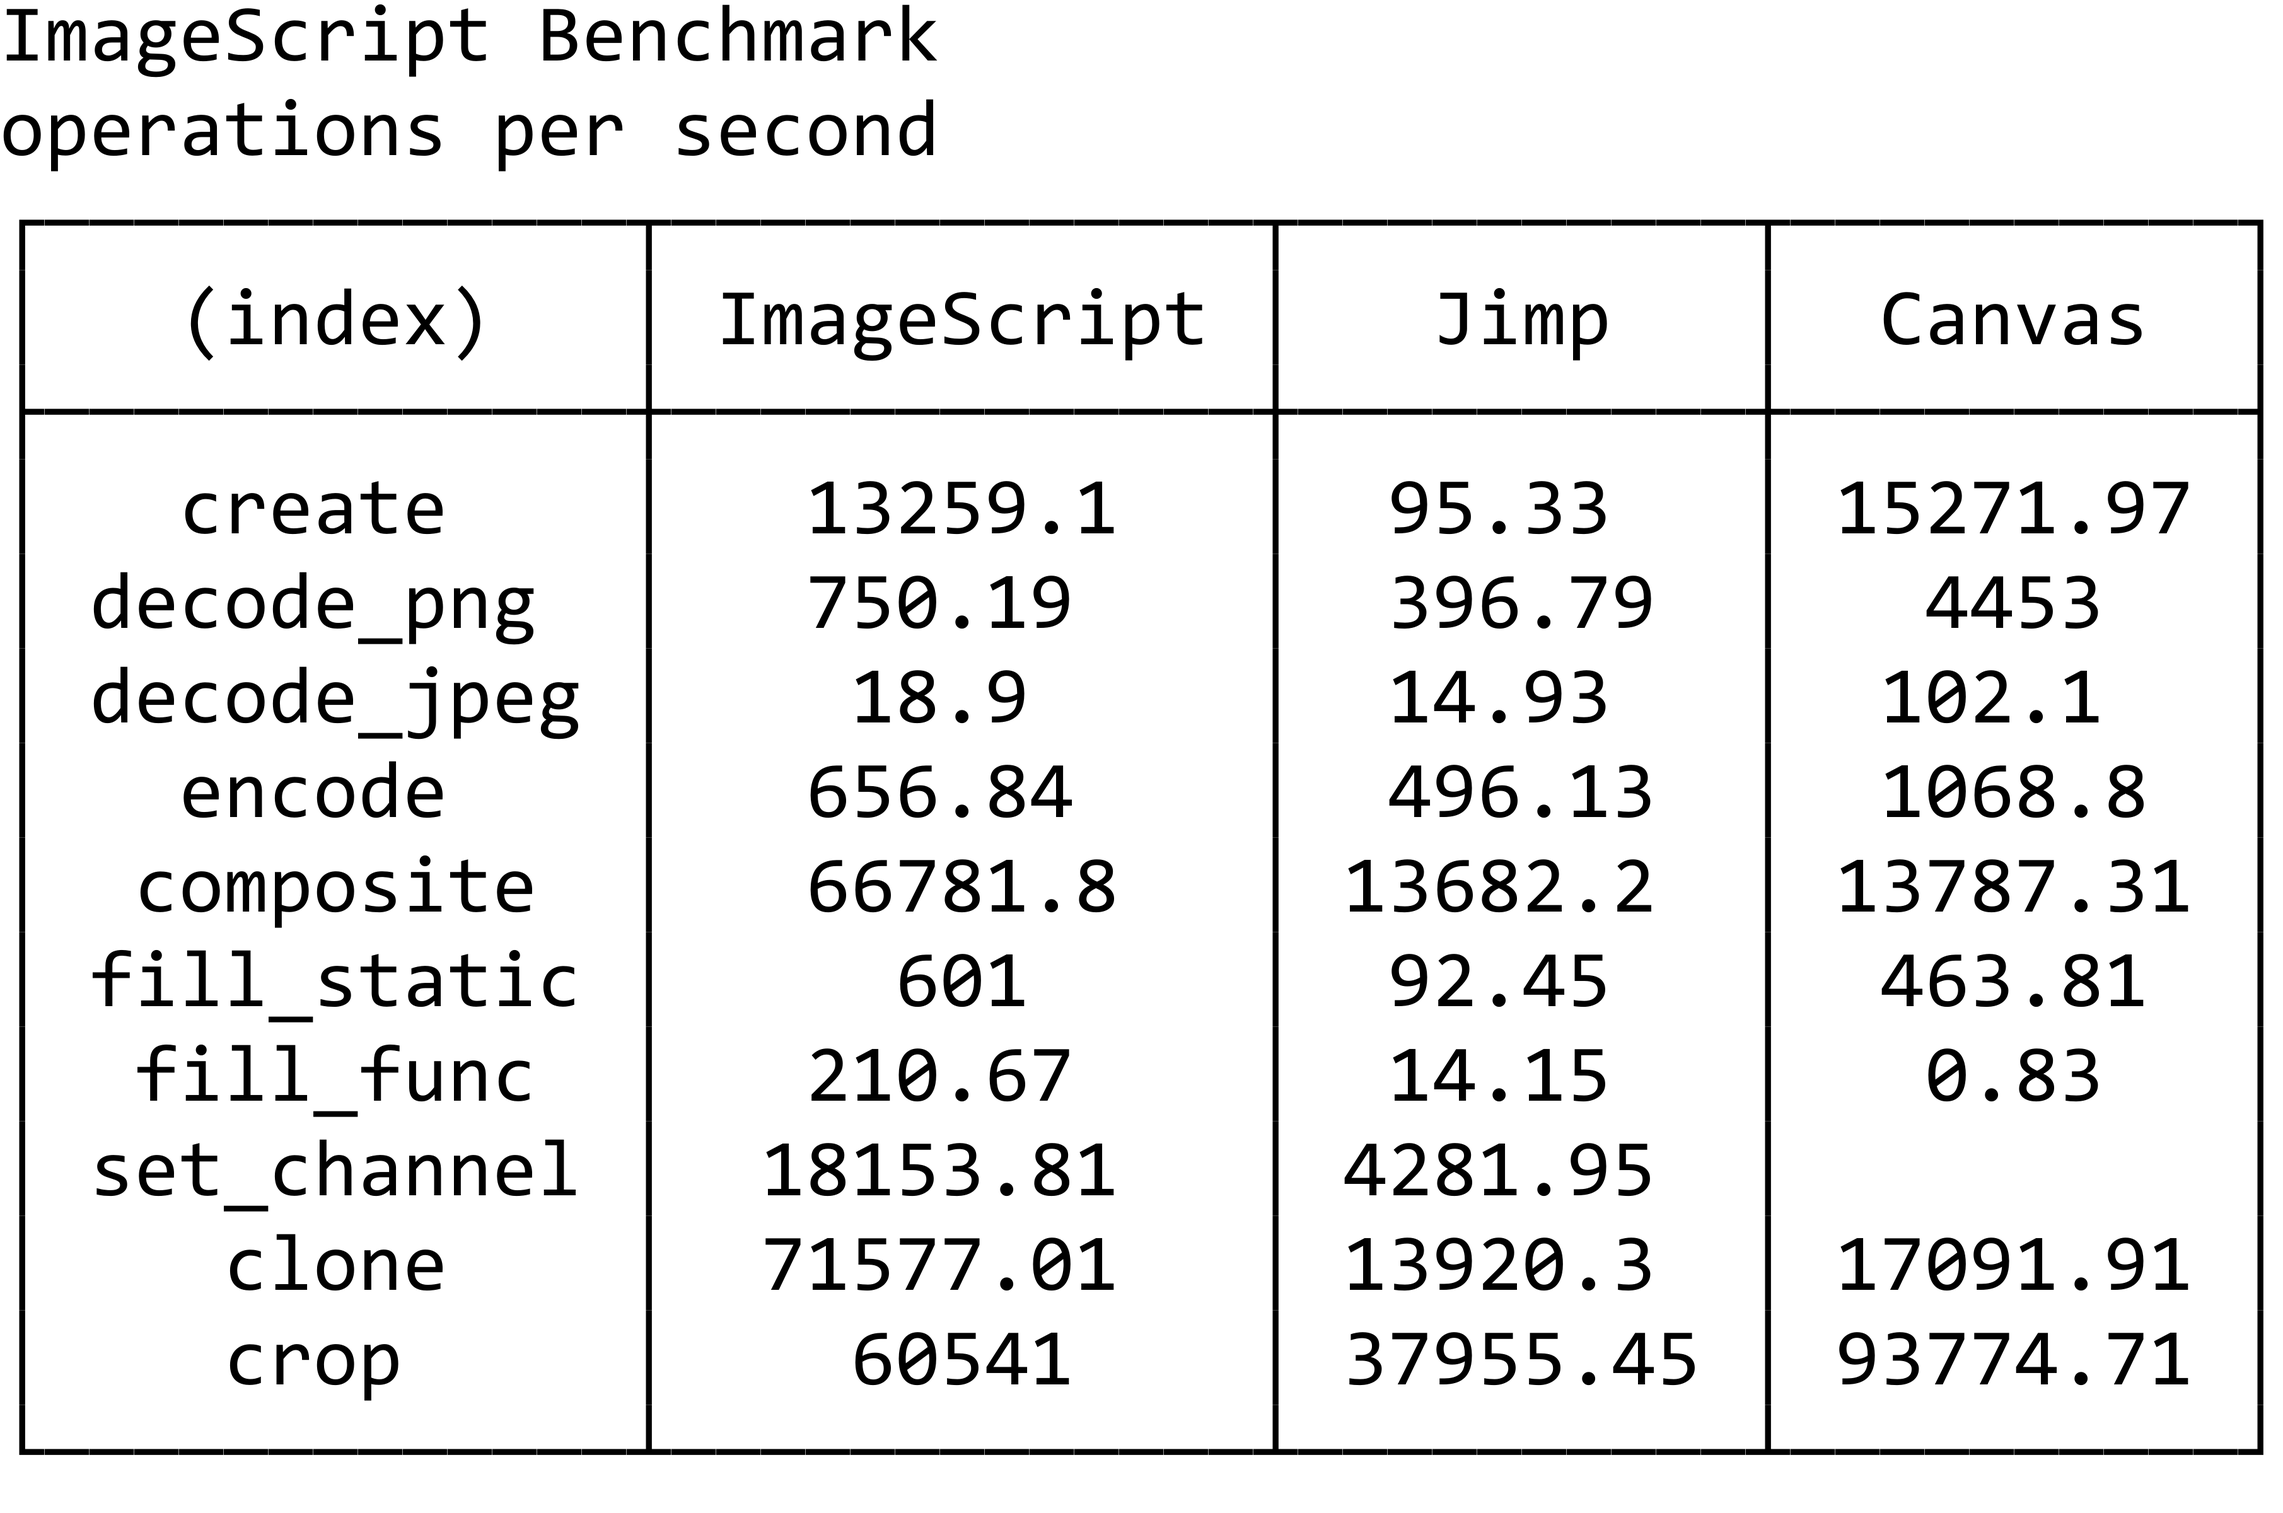
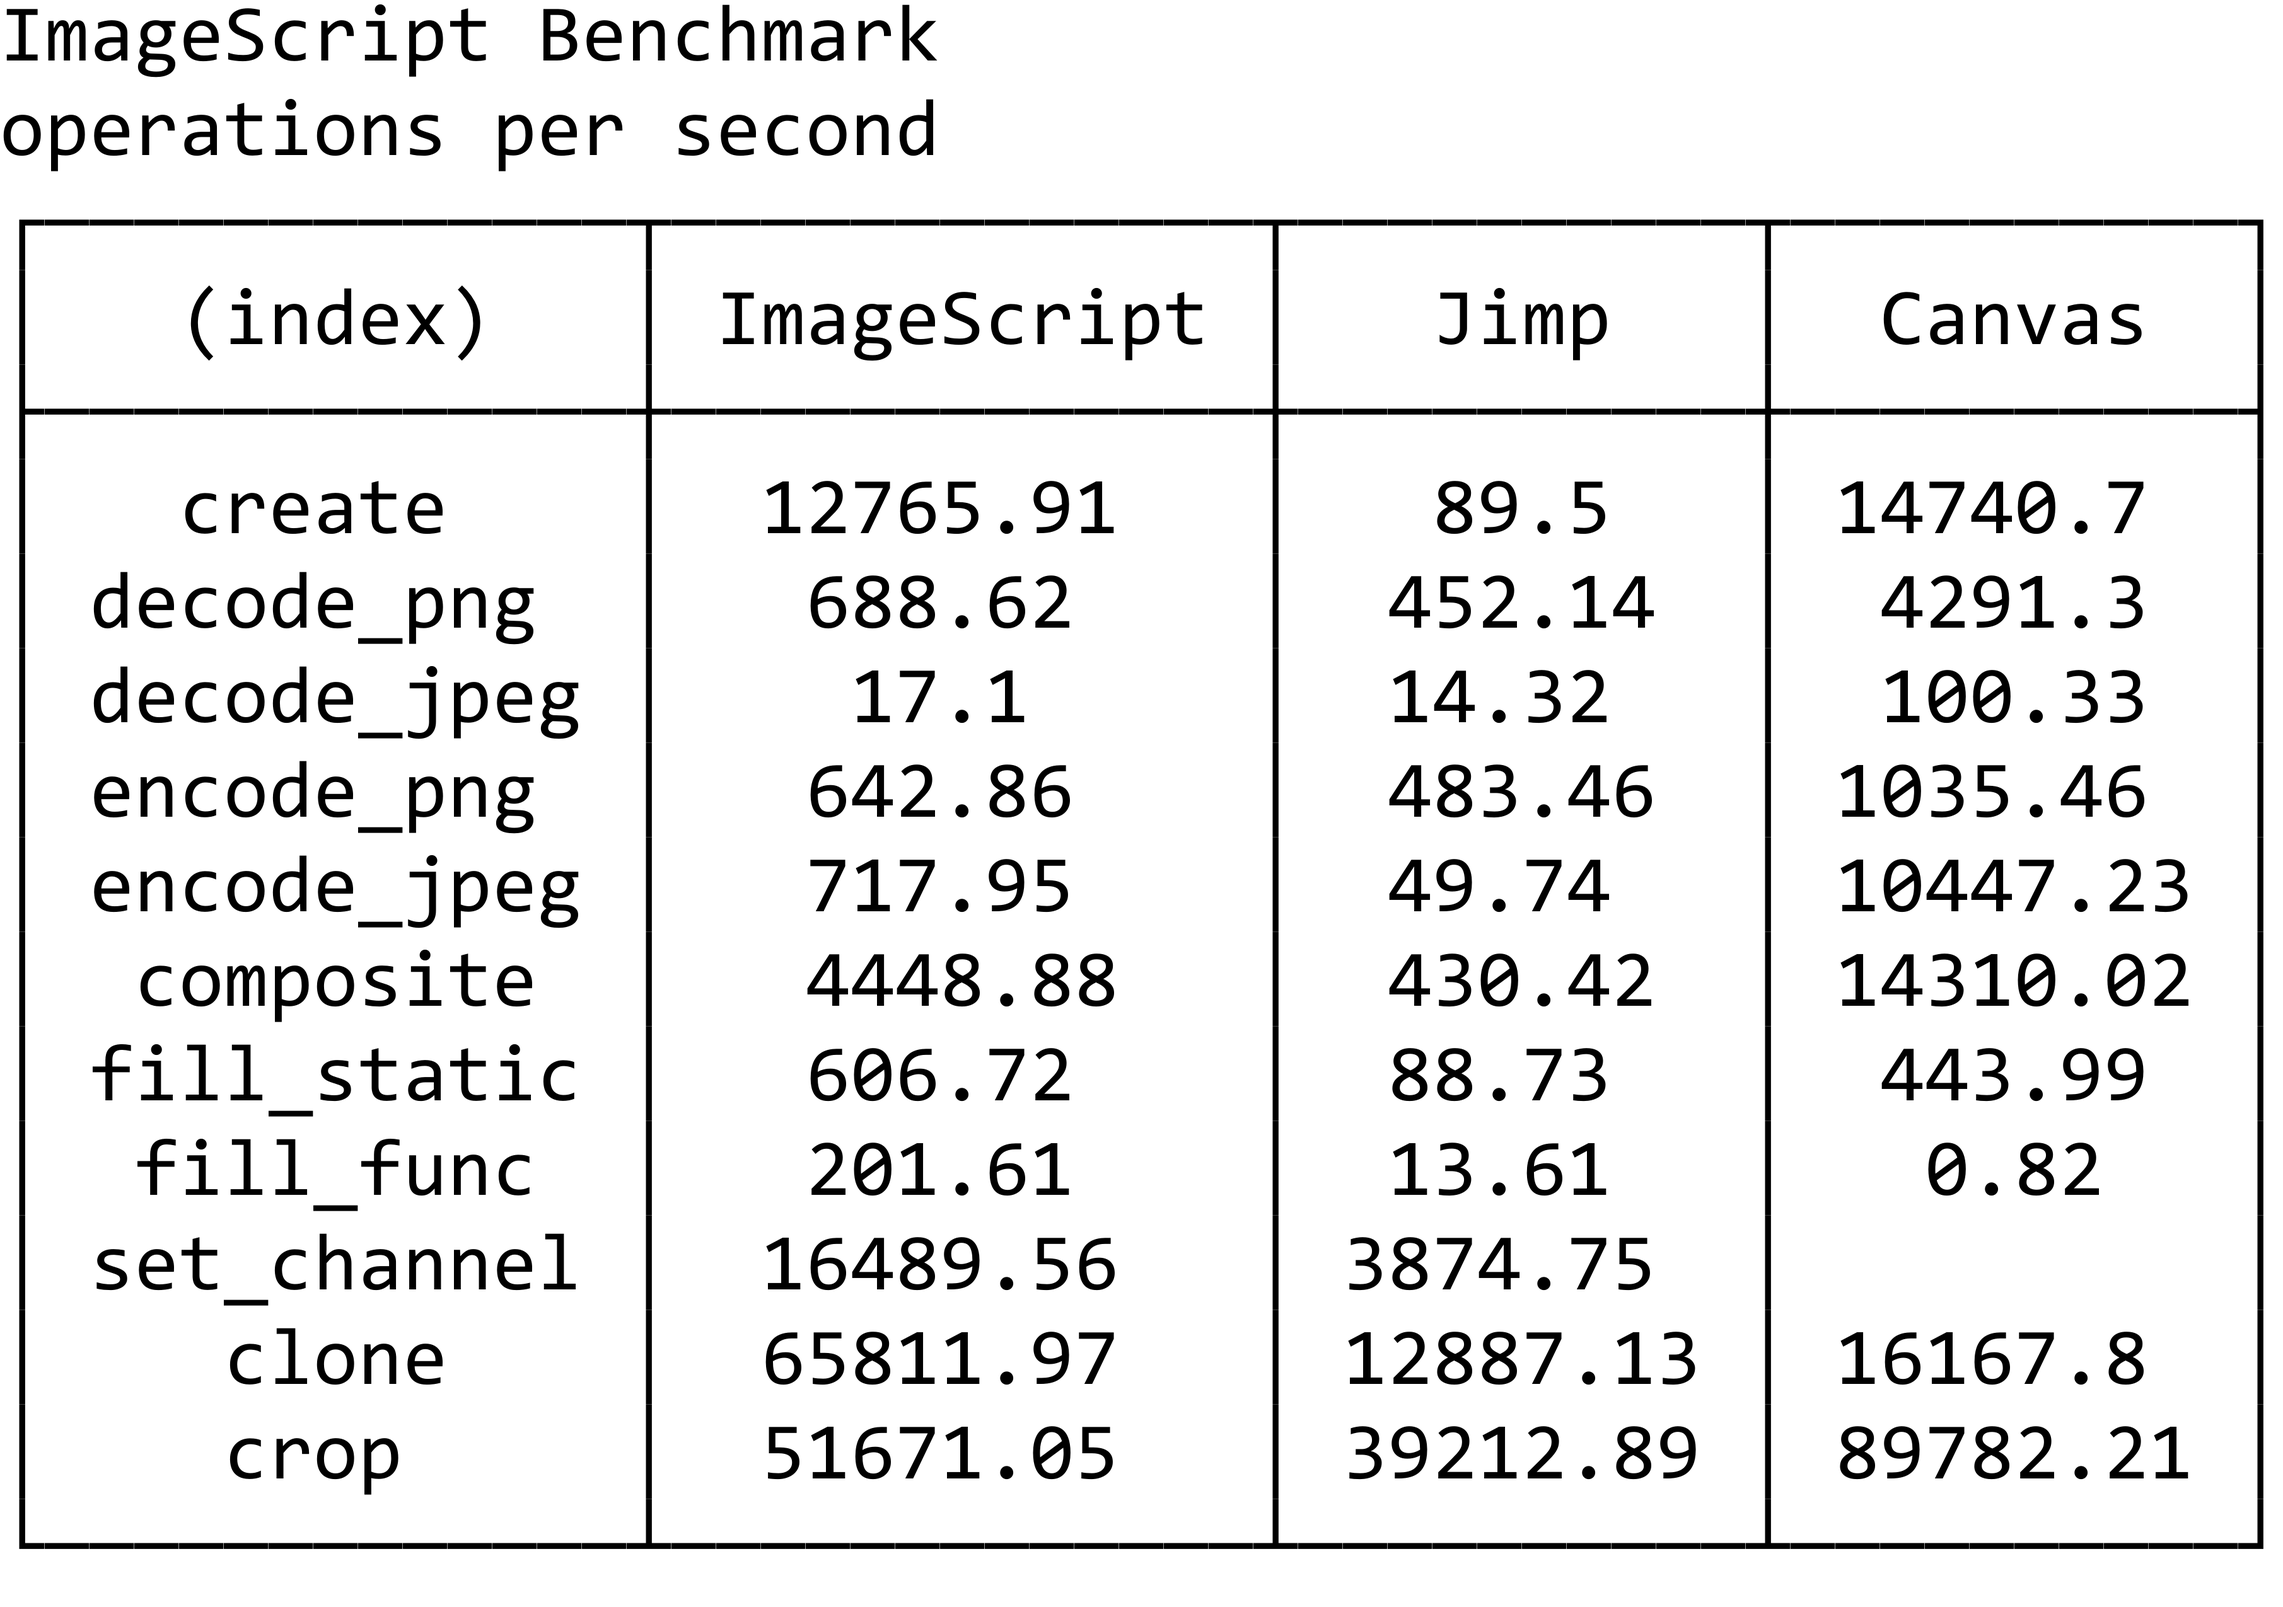
Add JPEG encoding benchmark, fix composite benchmark

Changed region(s): [[0.0, 0.1875, 0.9986, 0.9688], [0.0, 0.0, 0.9986, 0.1562], [0.2497, 0.0, 0.2809, 0.0312]]

diff --git a/index.js b/index.js
@@ -73,14 +73,19 @@ const canvas = require('canvas');
                 ctx.drawImage(image, 0, 0);
             }
         },
-        encode: {
+        encode_png: {
             ImageScript: decoded.ImageScript.encode.bind(decoded.ImageScript),
             Jimp: decoded.Jimp.getBufferAsync.bind(decoded.Jimp, 'image/png'),
             Canvas: async () => decoded.Canvas.toBuffer()
         },
+        encode_jpeg: {
+            ImageScript: decoded.ImageScript.encodeJPEG.bind(decoded.ImageScript),
+            Jimp: decoded.Jimp.getBufferAsync.bind(decoded.Jimp, 'image/jpeg'),
+            Canvas: async () => decoded.Canvas.toBuffer('image/jpeg')
+        },
         composite: {
-            ImageScript: async () => decoded.ImageScript.clone().composite.bind(decoded.ImageScript, overlays.ImageScript),
-            Jimp: async () => decoded.Jimp.clone().composite.bind(decoded.Jimp, overlays.Jimp),
+            ImageScript: async () => decoded.ImageScript.clone().composite(overlays.ImageScript),
+            Jimp: async () => decoded.Jimp.clone().composite(overlays.Jimp, 0, 0),
             Canvas: async () => {
                 // recommended way of cloning a canvas..
                 const newCanvas = canvas.createCanvas(decoded.Canvas.width, decoded.Canvas.height);

diff --git a/README.md b/README.md
@@ -5,15 +5,16 @@ operations per second
 ┌─────────────┬─────────────┬──────────┬──────────┐  
 │   (index)   │ ImageScript │   Jimp   │  Canvas  │  
 ├─────────────┼─────────────┼──────────┼──────────┤  
-│   create    │   13259.1   │  95.33   │ 15271.97 │  
-│ decode_png  │   750.19    │  396.79  │   4453   │  
-│ decode_jpeg │    18.9     │  14.93   │  102.1   │  
-│   encode    │   656.84    │  496.13  │  1068.8  │  
-│  composite  │   66781.8   │ 13682.2  │ 13787.31 │  
-│ fill_static │     601     │  92.45   │  463.81  │  
-│  fill_func  │   210.67    │  14.15   │   0.83   │  
-│ set_channel │  18153.81   │ 4281.95  │          │  
-│    clone    │  71577.01   │ 13920.3  │ 17091.91 │  
-│    crop     │    60541    │ 37955.45 │ 93774.71 │  
+│   create    │  12765.91   │   89.5   │ 14740.7  │  
+│ decode_png  │   688.62    │  452.14  │  4291.3  │  
+│ decode_jpeg │    17.1     │  14.32   │  100.33  │  
+│ encode_png  │   642.86    │  483.46  │ 1035.46  │  
+│ encode_jpeg │   717.95    │  49.74   │ 10447.23 │  
+│  composite  │   4448.88   │  430.42  │ 14310.02 │  
+│ fill_static │   606.72    │  88.73   │  443.99  │  
+│  fill_func  │   201.61    │  13.61   │   0.82   │  
+│ set_channel │  16489.56   │ 3874.75  │          │  
+│    clone    │  65811.97   │ 12887.13 │ 16167.8  │  
+│    crop     │  51671.05   │ 39212.89 │ 89782.21 │  
 └─────────────┴─────────────┴──────────┴──────────┘  
 ```
